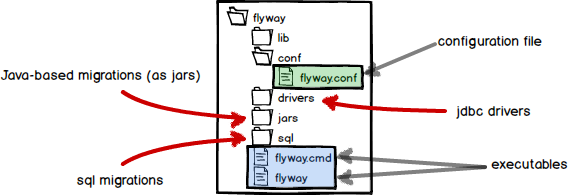
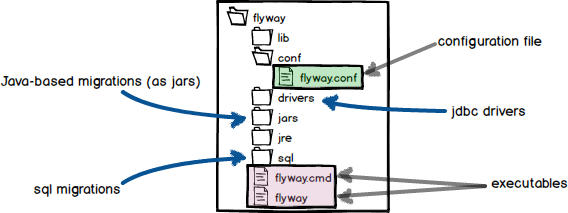
Added Flyway 3.2 announcement

Changed region(s): [[0.0, 0.0, 1.0, 1.0]]

diff --git a/_posts/2015-03-05-flyway-3.2.html b/_posts/2015-03-05-flyway-3.2.html
@@ -1,0 +1,122 @@
+---
+layout: blog
+subtitle: "Flyway 3.2 Released"
+permalink: /blog/flyway-3.2.html
+---
+<div>
+    <p>The Flyway 3.x series started <a href="/blog/flyway-3.0-android.html">just under a year ago</a>.
+        And <a href="/blog/thoughtworks-technology-radar.html">what</a> <a href="/blog/flyway-3.1.html">a ride</a> <a
+                href="/blog/2014-review.html">it's been</a>!</p>
+
+    <p>So without further ado, please welcome <strong>Flyway 3.2</strong>! The <strong>hightlights</strong> of this
+        release are:</p>
+    <ul>
+        <li>Many improvements to the command-line tool</li>
+        <li>solidDB support</li>
+        <li>Improved JavaBean-style configuration</li>
+        <li>Follow blog by email</li>
+    </ul>
+
+    <h2>Many improvements to the command-line tool</h2>
+
+    <p>The first and most important one is that Flyway Command-line <strong><a href="/documentation/commandline/">now
+        ships with a JRE</a></strong></p>
+
+    <img src="/assets/posts/flyway-3.2/commandline.png" alt="Flyway Command-line">
+
+    <p><br>Why is this important? With the bundled JDBC drivers added in <a href="/blog/flyway-3.1.html">Flyway 3.1</a>
+        and now the Java Runtime Environment,
+        <strong>Flyway Command-line now has zero required external dependencies</strong>. All you need to do to get
+        started
+        is unpack the distribution, configure your database connection, add your first SQL migration files and off you
+        go.
+        <a href="/getstarted/firststeps/commandline.html">Getting started</a> has never been easier!
+    </p>
+
+    <p>The other improvement we made is the ability to <strong>easily share an installation</strong>. Flyway will now by
+        default also look for a <code>flyway.conf</code> file in the current directory. And all relative paths are now
+        relative
+        to the current directory as well. This is great for server environments, where one read-only installation of the
+        Flyway Command-line
+        distribution can then be shared by many projects.</p>
+
+    <p>Last but not least, we also added a <code>-q</code> switch to <strong>only output errors and warnings</strong>.
+    </p>
+
+    <h2>solidDB support</h2>
+
+    <p>Building upon the <a href="/#databases">ever growing list</a> of supported databases, this release adds official
+        support for <a href="http://unicomsi.com/products/soliddb/">solidDB</a>:</p>
+
+    <div class="blog-post-image">
+        <img src="/assets/posts/flyway-3.2/solidb.jpg" alt="solidDB">
+    </div>
+
+    <p>Special thanks to <a href="https://github.com/MichaelF25">Michael Forstner</a> for contributing this!</p>
+
+    <h2>Improved JavaBean-style configuration</h2>
+
+    <p>On projects working with Spring's XML configuration, JavaBean-style property access is the way to go. In the
+        past,
+        Flyway has overloaded a number of accessors, making this harder than it should have been. This has now been
+        fixed.
+        As of Flyway 3.2, <strong>all properties are configurable using JavaBean-style accessors</strong> as used by
+        Spring XML. As usual,
+        Flyway makes things easy and the old
+        methods have first been deprecated to ensure a smooth migration path. They will only be removed in 4.0
+    </p>
+
+    <pre class="prettyprint">&lt;bean id=&quot;flyway&quot; class=&quot;org.flywaydb.core.Flyway&quot; init-method=&quot;migrate&quot;&gt;
+    &lt;property name=&quot;dataSource&quot; ref=&quot;...&quot;/&gt;
+    <del>&lt;property name=&quot;baselineVersion&quot; value=&quot;...&quot;/&gt;</del>
+    <strong>&lt;property name=&quot;baselineVersionAsString&quot; value=&quot;...&quot;/&gt;</strong>
+    ...
+&lt;/bean&gt;</pre>
+
+    <p>Special thanks to <a href="https://twitter.com/davidharrigan">David Harrigan</a> for <strong><a
+            href="/support/#sponsor">sponsoring the development of this feature</a></strong>!</p>
+
+    <h2>Follow blog by email</h2>
+
+    <p>To make it even easier for you to stay updated, we have added the option for you to <strong>follow to this
+        blog</strong>
+        by email. All you need to do is enter you email address in the field below and you'll never miss an
+        update again.
+        Needless to say this is <strong>strictly no spam</strong> and you can unsubscribe at any time.
+    </p>
+
+    <div class="blog-post-image">
+        <img src="/assets/posts/flyway-3.2/email.png" alt="Subscribe by email">
+        <!-- Begin MailChimp Signup Form -->
+        <form action="//boxfuse.us9.list-manage.com/subscribe/post?u=0e72f61962b6b47f78568d56c&amp;id=e1046edb96"
+              method="post" id="mc-embedded-subscribe-form-footer" name="mc-embedded-subscribe-form-footer"
+              class="validate" target="_blank" novalidate>
+            <div id="mc_embed_signup_scroll-footer" style="margin-top: 5px">
+                <div class="mc-field-group">
+                    <input type="email" value="" name="EMAIL" class="required email" id="mce-EMAIL-footer"
+                           placeholder="Your email address">
+                    <input type="submit" value="Follow" name="subscribe" id="mc-embedded-subscribe-footer"
+                           class="btn btn-primary" style="margin-top: -9px">
+                </div>
+                <div id="mce-responses-footer" class="clear">
+                    <div class="response" id="mce-error-response" style="display:none"></div>
+                    <div class="response" id="mce-success-response" style="display:none"></div>
+                </div>
+                <!-- real people should not fill this in and expect good things - do not remove this or risk form bot signups-->
+                <div style="position: absolute; left: -5000px;"><input type="text" name="b_0e72f61962b6b47f78568d56c_e1046edb96" tabindex="-1" value=""></div>
+            </div>
+        </form>
+        <!--End mc_embed_signup-->
+    </div>
+
+    <h2>Grab it while it's hot!</h2>
+
+    <p>This release packs in many more <a href="/documentation/releaseNotes.html">small improvements and bug fixes</a>
+        across the board.</p>
+
+    <p>Enjoy the release and <a href="/getstarted/download.html">grab it while it's hot!</a></p>
+
+    <p><strong>All users are encouraged to upgrade.</strong></p>
+
+    <p>Spread the word on Twitter and follow <a href="https://twitter.com/flywaydb">@flywaydb</a> to stay in touch.</p>
+</div>

diff --git a/documentation/commandline/info.html b/documentation/commandline/info.html
@@ -194,7 +194,7 @@ flyway.outOfOrder=false</pre>
     <h2>Sample output</h2>
     <pre class="console">&gt; flyway info
 
-Flyway (Command-line Tool) v.{{ site.flywayVersion }}
+Flyway {{ site.flywayVersion }} by Boxfuse
 
 +-------------+------------------------+---------------------+---------+
 | Version     | Description            | Installed on        | State   |

diff --git a/documentation/commandline/clean.html b/documentation/commandline/clean.html
@@ -89,7 +89,7 @@ flyway.callbacks=com.mycomp.project.CustomCallback,com.mycomp.project.AnotherCal
     <h2>Sample output</h2>
     <pre class="console">&gt; flyway clean
 
-Flyway (Command-line Tool) v.{{ site.flywayVersion }}
+Flyway {{ site.flywayVersion }} by Boxfuse
 
 Cleaned database schema 'PUBLIC' (execution time 00:00.014s)</pre>
 

diff --git a/documentation/commandline/baseline.html b/documentation/commandline/baseline.html
@@ -115,7 +115,7 @@ flyway.baselineDescription=Base Migration</pre>
     <h2>Sample output</h2>
     <pre class="console">&gt; flyway baseline
 
-Flyway (Command-line Tool) v.{{ site.flywayVersion }}
+Flyway {{ site.flywayVersion }} by Boxfuse
 
 Creating Metadata table: "PUBLIC"."schema_version"
 Schema baselined with version: 1</pre>

diff --git a/documentation/commandline/repair.html b/documentation/commandline/repair.html
@@ -181,7 +181,7 @@ flyway.callbacks=com.mycomp.project.CustomCallback,com.mycomp.project.AnotherCal
     <h2>Sample output</h2>
     <pre class="console">&gt; flyway repair
 
-Flyway (Command-line Tool) v.{{ site.flywayVersion }}
+Flyway {{ site.flywayVersion }} by Boxfuse
 
 Repair not necessary. No failed migration detected.</pre>
 

diff --git a/documentation/commandline/migrate.html b/documentation/commandline/migrate.html
@@ -248,7 +248,7 @@ flyway.baselineOnMigrate=false</pre>
     <h2>Sample output</h2>
     <pre class="console">&gt; flyway migrate
 
-Flyway (Command-line Tool) v.{{ site.flywayVersion }}
+Flyway {{ site.flywayVersion }} by Boxfuse
 
 Creating Metadata table: "PUBLIC"."schema_version"
 Current schema version: null

diff --git a/documentation/commandline/validate.html b/documentation/commandline/validate.html
@@ -207,7 +207,7 @@ flyway.cleanOnValidationError=false</pre>
     <h2>Sample output</h2>
     <pre class="console">&gt; flyway validate
 
-Flyway (Command-line Tool) v.{{ site.flywayVersion }}
+Flyway {{ site.flywayVersion }} by Boxfuse
 
 No migrations applied yet. No validation necessary.</pre>
 
